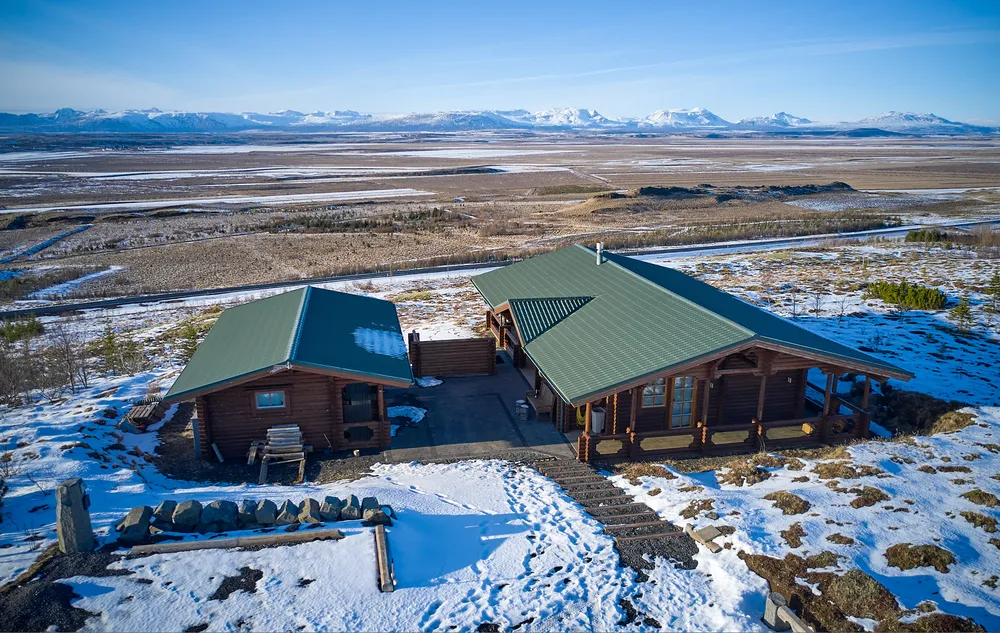
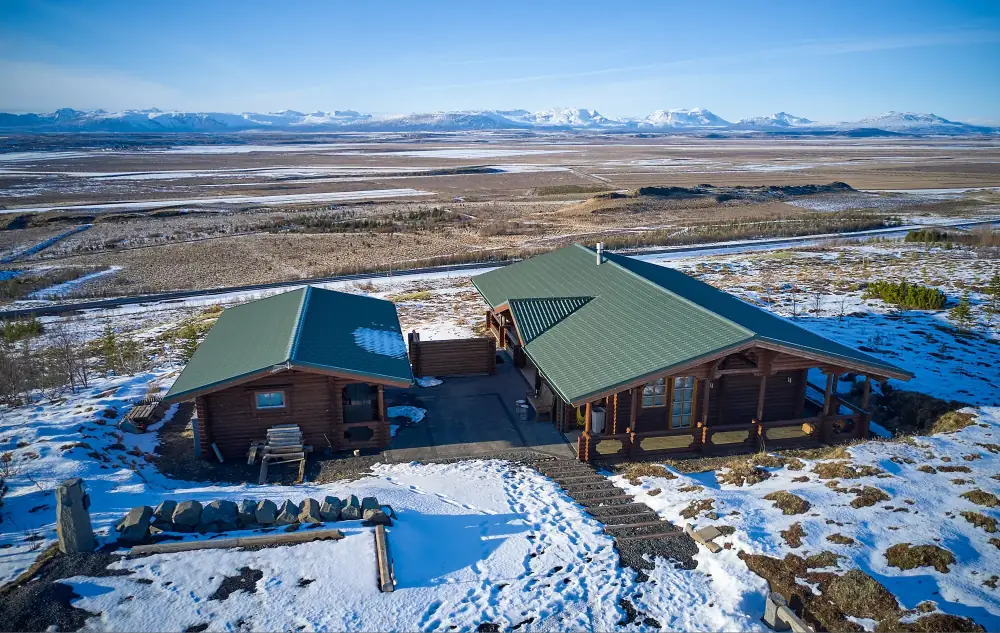
Deploy 9c575b6 (noindex preview)

diff --git a/index.html b/index.html
@@ -60,7 +60,7 @@
   <section class="section section--full-height ui-dark ui-background-alt sticky sticky--under-next" id="top">
     <div class="sticky__layer sticky__layer--sticky hero" data-hero-out>
       <figure class="hero__media">
-        <img id="heroImg" src="assets/img/hero-dusk-md.webp" srcset="assets/img/hero-dusk-sm.webp 1000w, assets/img/hero-dusk-md.webp 2000w, assets/img/hero-dusk.webp 3400w" sizes="115vw" alt="Stekkar at dusk, its windows lit, the Golden Circle plain behind it" fetchpriority="high">
+        <picture><source media="(max-width: 860px)" srcset="assets/img/hero-dusk-p.webp"><img id="heroImg" src="assets/img/hero-dusk-md.webp" srcset="assets/img/hero-dusk-sm.webp 1000w, assets/img/hero-dusk-md.webp 2000w, assets/img/hero-dusk.webp 3400w" sizes="(max-width: 860px) 800px, 1620px" alt="Stekkar at dusk, its windows lit, the Golden Circle plain behind it" fetchpriority="high"></picture>
         <span class="hero__scrim" aria-hidden="true"></span>
       </figure>
       <div class="hero__type">
@@ -85,9 +85,9 @@
     <div class="about__stage" id="tripleStage">
       <div class="about__pin">
         <div class="triple" id="triple">
-          <figure class="triple__side" data-img-wrap><img src="assets/img/langholt-tub-sm.webp" srcset="assets/img/langholt-tub-sm.webp 1000w, assets/img/langholt-tub.webp 1800w" sizes="(max-width: 860px) 100vw, 44vw" alt="The barrel hot tub on the deck at Langholt" loading="lazy"></figure>
-          <figure class="triple__mid" data-img-wrap><img src="assets/img/tvera-tub-md.webp" srcset="assets/img/tvera-tub-sm.webp 1000w, assets/img/tvera-tub-md.webp 2000w, assets/img/tvera-tub.webp 3400w" sizes="(max-width: 860px) 110vw, 190vw" alt="The hot tub on the deck at Tvera, the bay below" loading="lazy"></figure>
-          <figure class="triple__side" data-img-wrap><img src="assets/img/stekkar-lounge-sm.webp" srcset="assets/img/stekkar-lounge-sm.webp 1000w, assets/img/stekkar-lounge.webp 1800w" sizes="(max-width: 860px) 100vw, 44vw" alt="The lounge and wood stove at Stekkar" loading="lazy"></figure>
+          <figure class="triple__side" data-img-wrap><img src="assets/img/langholt-tub-sm.webp" srcset="assets/img/langholt-tub-sm.webp 1000w, assets/img/langholt-tub-md.webp 1400w, assets/img/langholt-tub.webp 1800w" sizes="(max-width: 860px) 620px, 690px" alt="The barrel hot tub on the deck at Langholt" loading="lazy"></figure>
+          <figure class="triple__mid" data-img-wrap><img src="assets/img/tvera-tub-md.webp" srcset="assets/img/tvera-tub-sm.webp 1000w, assets/img/tvera-tub-md.webp 2000w, assets/img/tvera-tub.webp 3400w" sizes="(max-width: 860px) 620px, 1340px" alt="The hot tub on the deck at Tvera, the bay below" loading="lazy"></figure>
+          <figure class="triple__side" data-img-wrap><img src="assets/img/stekkar-lounge-sm.webp" srcset="assets/img/stekkar-lounge-sm.webp 1000w, assets/img/stekkar-lounge-md.webp 1400w, assets/img/stekkar-lounge.webp 1800w" sizes="(max-width: 860px) 620px, 690px" alt="The lounge and wood stove at Stekkar" loading="lazy"></figure>
         </div>
       </div>
     </div>
@@ -98,7 +98,7 @@
     </div>
     <div class="wrap">
       <figure class="about__fig" data-img-wrap data-reveal="img">
-        <img data-img src="assets/img/stekkar-veranda-md.webp" srcset="assets/img/stekkar-veranda-sm.webp 1100w, assets/img/stekkar-veranda-md.webp 2000w, assets/img/stekkar-veranda.webp 3400w" sizes="(max-width: 860px) 800px, 1650px" alt="The veranda doors open at Stekkar, the winter plain beyond" loading="lazy">
+        <img data-img src="assets/img/stekkar-veranda-md.webp" srcset="assets/img/stekkar-veranda-sm.webp 1100w, assets/img/stekkar-veranda-md.webp 2000w, assets/img/stekkar-veranda.webp 3400w" sizes="(max-width: 860px) 640px, 1610px" alt="The veranda doors open at Stekkar, the winter plain beyond" loading="lazy">
       </figure>
     </div>
   </section>
@@ -107,11 +107,11 @@
   <section class="section ui-dark ui-background-alt stage" id="collection">
     <div class="stage__pin">
       <div class="stage__plates">
-        <figure class="stage__plate is-on"><img src="assets/img/brekka-deck-sm.webp" srcset="assets/img/brekka-deck-sm.webp 1000w, assets/img/brekka-deck.webp 1800w" sizes="(max-width: 860px) 100vw, 46vw" alt="The terrace table at Brekka, looking across Hvalfjörður to the snow line" loading="lazy"></figure>
-        <figure class="stage__plate"><img src="assets/img/langholt-exterior-sm.webp" srcset="assets/img/langholt-exterior-sm.webp 1000w, assets/img/langholt-exterior.webp 1800w" sizes="(max-width: 860px) 100vw, 46vw" alt="Langholt on its slope, the fjord below" loading="lazy"></figure>
-        <figure class="stage__plate"><img src="assets/img/tvera-tub.webp" srcset="assets/img/tvera-tub-sm.webp 1000w, assets/img/tvera-tub.webp 2000w" sizes="(max-width: 60rem) 88vw, 34rem" alt="The hot tub on the deck at Tvera, the bay below" loading="lazy"></figure>
-        <figure class="stage__plate"><img src="assets/img/hamragil-lodge-sm.webp" srcset="assets/img/hamragil-lodge-sm.webp 1000w, assets/img/hamragil-lodge.webp 1800w" sizes="(max-width: 860px) 100vw, 46vw" alt="Hamragil and its deck in Fnjóskadalur" loading="lazy"></figure>
-        <figure class="stage__plate"><img src="assets/img/stekkar-snow.webp" srcset="assets/img/stekkar-snow-sm.webp 1000w, assets/img/stekkar-snow.webp 2000w" sizes="(max-width: 60rem) 88vw, 34rem" alt="Stekkar and its guest house in winter" loading="lazy"></figure>
+        <figure class="stage__plate is-on"><img src="assets/img/brekka-deck-sm.webp" srcset="assets/img/brekka-deck-sm.webp 1000w, assets/img/brekka-deck-md.webp 1400w, assets/img/brekka-deck.webp 1800w" sizes="(max-width: 860px) 360px, 620px" alt="The terrace table at Brekka, looking across Hvalfjörður to the snow line" loading="lazy"></figure>
+        <figure class="stage__plate"><img src="assets/img/langholt-exterior-sm.webp" srcset="assets/img/langholt-exterior-sm.webp 1000w, assets/img/langholt-exterior-md.webp 1400w, assets/img/langholt-exterior.webp 1800w" sizes="(max-width: 860px) 360px, 620px" alt="Langholt on its slope, the fjord below" loading="lazy"></figure>
+        <figure class="stage__plate"><img src="assets/img/tvera-tub.webp" srcset="assets/img/tvera-tub-sm.webp 1000w, assets/img/tvera-tub-md.webp 2000w, assets/img/tvera-tub.webp 3400w" sizes="(max-width: 860px) 330px, 620px" alt="The hot tub on the deck at Tvera, the bay below" loading="lazy"></figure>
+        <figure class="stage__plate"><img src="assets/img/hamragil-lodge-sm.webp" srcset="assets/img/hamragil-lodge-sm.webp 1000w, assets/img/hamragil-lodge-md.webp 1400w, assets/img/hamragil-lodge.webp 1800w" sizes="(max-width: 860px) 360px, 620px" alt="Hamragil and its deck in Fnjóskadalur" loading="lazy"></figure>
+        <figure class="stage__plate"><img src="assets/img/stekkar-snow.webp" srcset="assets/img/stekkar-snow-sm.webp 1000w, assets/img/stekkar-snow-md.webp 1400w, assets/img/stekkar-snow.webp 2000w" sizes="(max-width: 860px) 380px, 650px" alt="Stekkar and its guest house in winter" loading="lazy"></figure>
       </div>
       <div class="stage__type">
         <p class="subtitle" data-reveal="subtitle">The five</p>
@@ -225,7 +225,7 @@
 
   <!-- ═══ 7 · ENQUIRE — the register card ═══ -->
   <section class="section ui-light ui-background register" id="enquire">
-    <figure class="register__bg" aria-hidden="true"><img src="assets/img/stekkar-dusk2-md.webp" srcset="assets/img/stekkar-dusk2-sm.webp 1000w, assets/img/stekkar-dusk2-md.webp 2000w, assets/img/stekkar-dusk2.webp 4000w" sizes="135vw" alt=""></figure>
+    <figure class="register__bg" aria-hidden="true"><picture><source media="(max-width: 860px)" srcset="assets/img/stekkar-dusk2-p.webp"><img src="assets/img/stekkar-dusk2-md.webp" srcset="assets/img/stekkar-dusk2-sm.webp 1000w, assets/img/stekkar-dusk2-md.webp 2000w, assets/img/stekkar-dusk2.webp 4000w" sizes="(max-width: 860px) 640px, 1990px" alt=""></picture></figure>
     <div class="register__screen">
       <div class="register__form">
         <p class="subtitle subtitle--sm" data-reveal="subtitle">Enquire</p>
